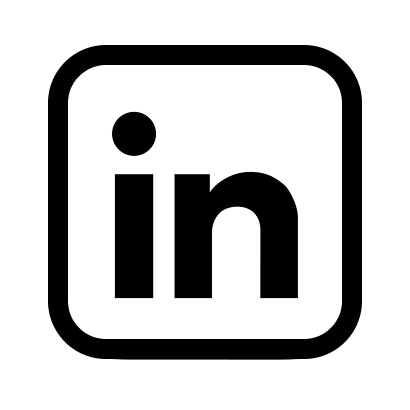
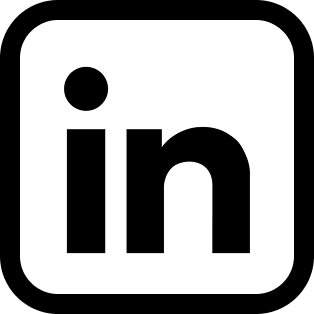
changed img linkedin removed white space

diff --git a/main/graphic_designer.html b/main/graphic_designer.html
@@ -329,17 +329,15 @@
     <script src="slideshow1.js"></script>
 
     <footer>
-        <!-- <h4 id="contact">Contact Me through...</h4> -->
         <div>
-            <a href="mailto:?subject=Arielle Beltran | Portfolio&body=https://ariellebeltran.github.io/portfolio/"
-                target="_blank"><img src="https://ariellebeltran.github.io/portfolio/main/images/email-icon.png"
-                    alt="Email icon" width="2%" height="2%"></a>
+            <a href="mailto:mailto:arielle-beltran@outlook.com ?subject=Arielle Beltran | Portfolio&body=https://ariellebeltran.github.io/portfolio/"
+                target="_blank"><img src="https://ariellebeltran.github.io/portfolio/main/images/email-mylogo.png"
+                    alt="Email icon" width="2%" height="auto"></a>
             <a href="https://linkedin.com/in/arielle-beltran/" target="_blank">
-                <img src="https://ariellebeltran.github.io/portfolio/main/images/linkedin-icon.png" alt="Linkedin Icon"
-                    width="1.5%" height="2%">
+                <img src="https://ariellebeltran.github.io/portfolio/main/images/linkedin-bnw-line.png"
+                    alt="Linkedin Icon" width="2%" height="auto">
             </a>
         </div>
-        <!-- <p>Email: arielle.appled@gmail.com<br>Discord: pomodoroisland</p> -->
     </footer>
 </body>
 

diff --git a/main/index.html b/main/index.html
@@ -394,10 +394,10 @@
         <div>
             <a href="mailto:mailto:arielle-beltran@outlook.com ?subject=Arielle Beltran | Portfolio&body=https://ariellebeltran.github.io/portfolio/"
                 target="_blank"><img src="https://ariellebeltran.github.io/portfolio/main/images/email-mylogo.png"
-                    alt="Email icon" width="2%" height="2%"></a>
+                    alt="Email icon" width="2%" height="auto"></a>
             <a href="https://linkedin.com/in/arielle-beltran/" target="_blank">
                 <img src="https://ariellebeltran.github.io/portfolio/main/images/linkedin-bnw-line.png" alt="Linkedin Icon"
-                    width="3%" height="3%">
+                    width="2%" height="auto">
             </a>
         </div>
 
